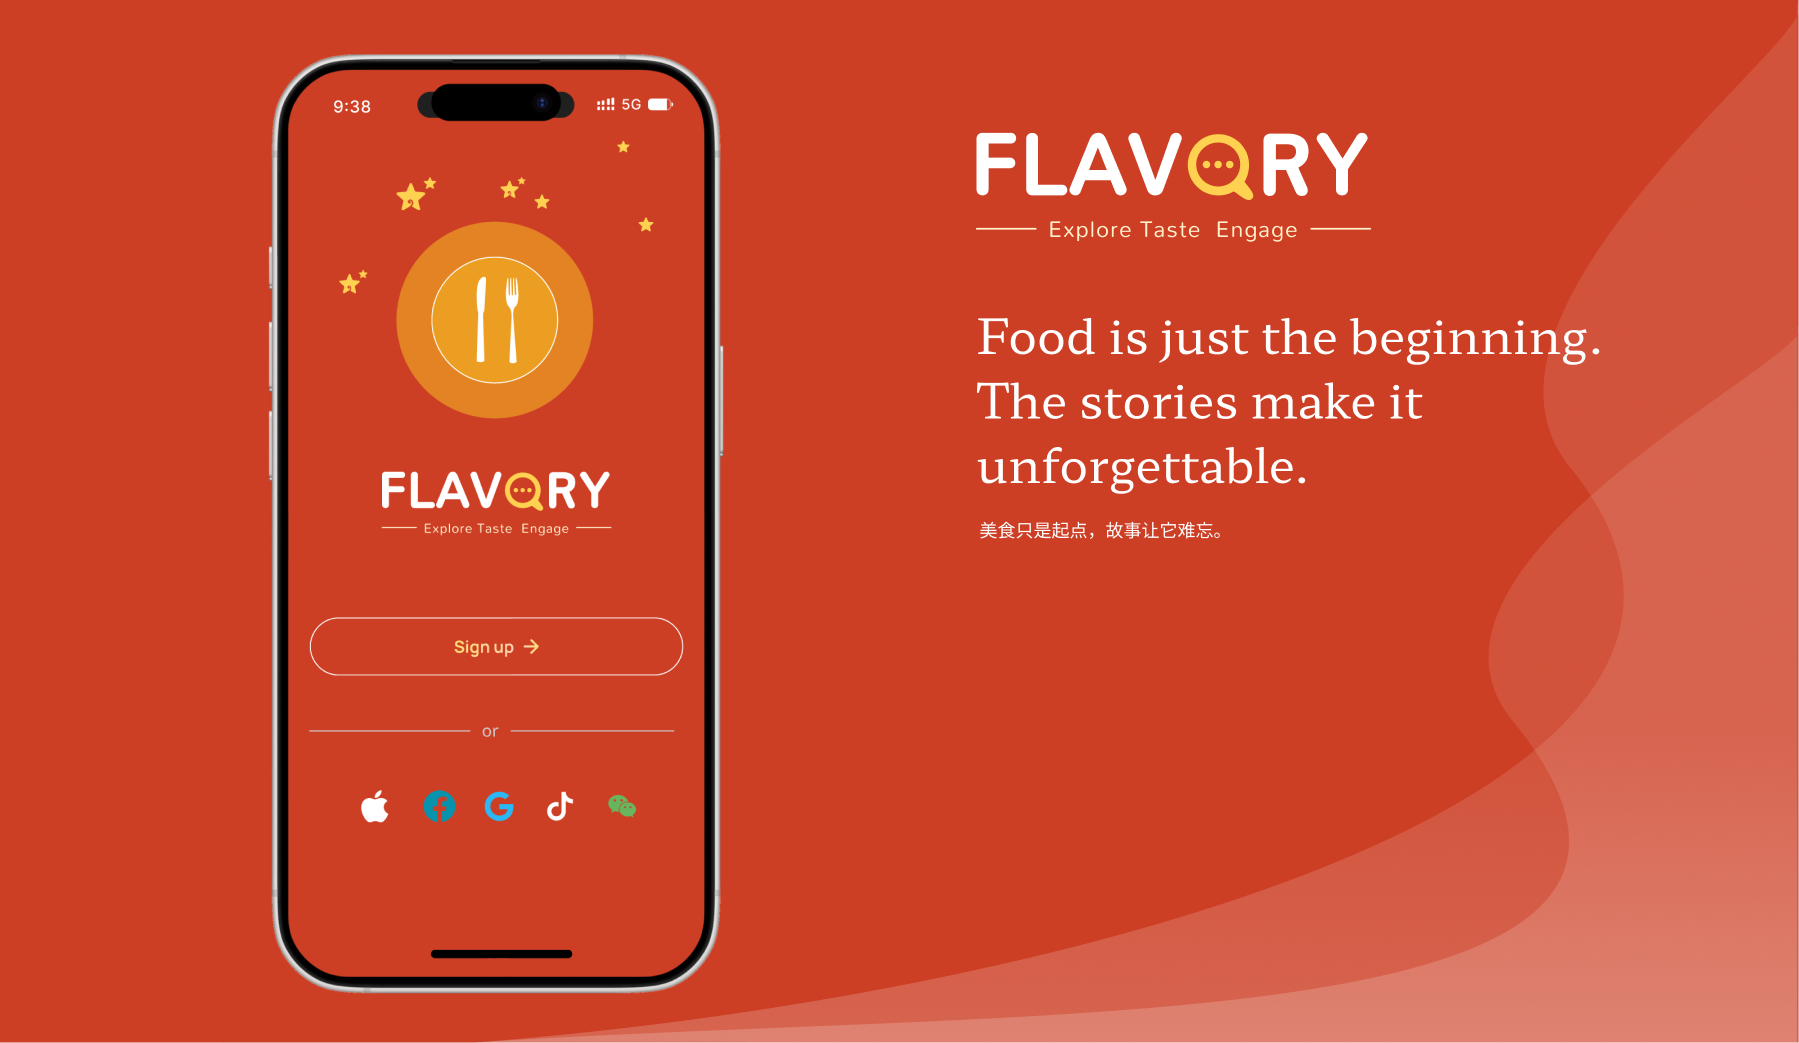
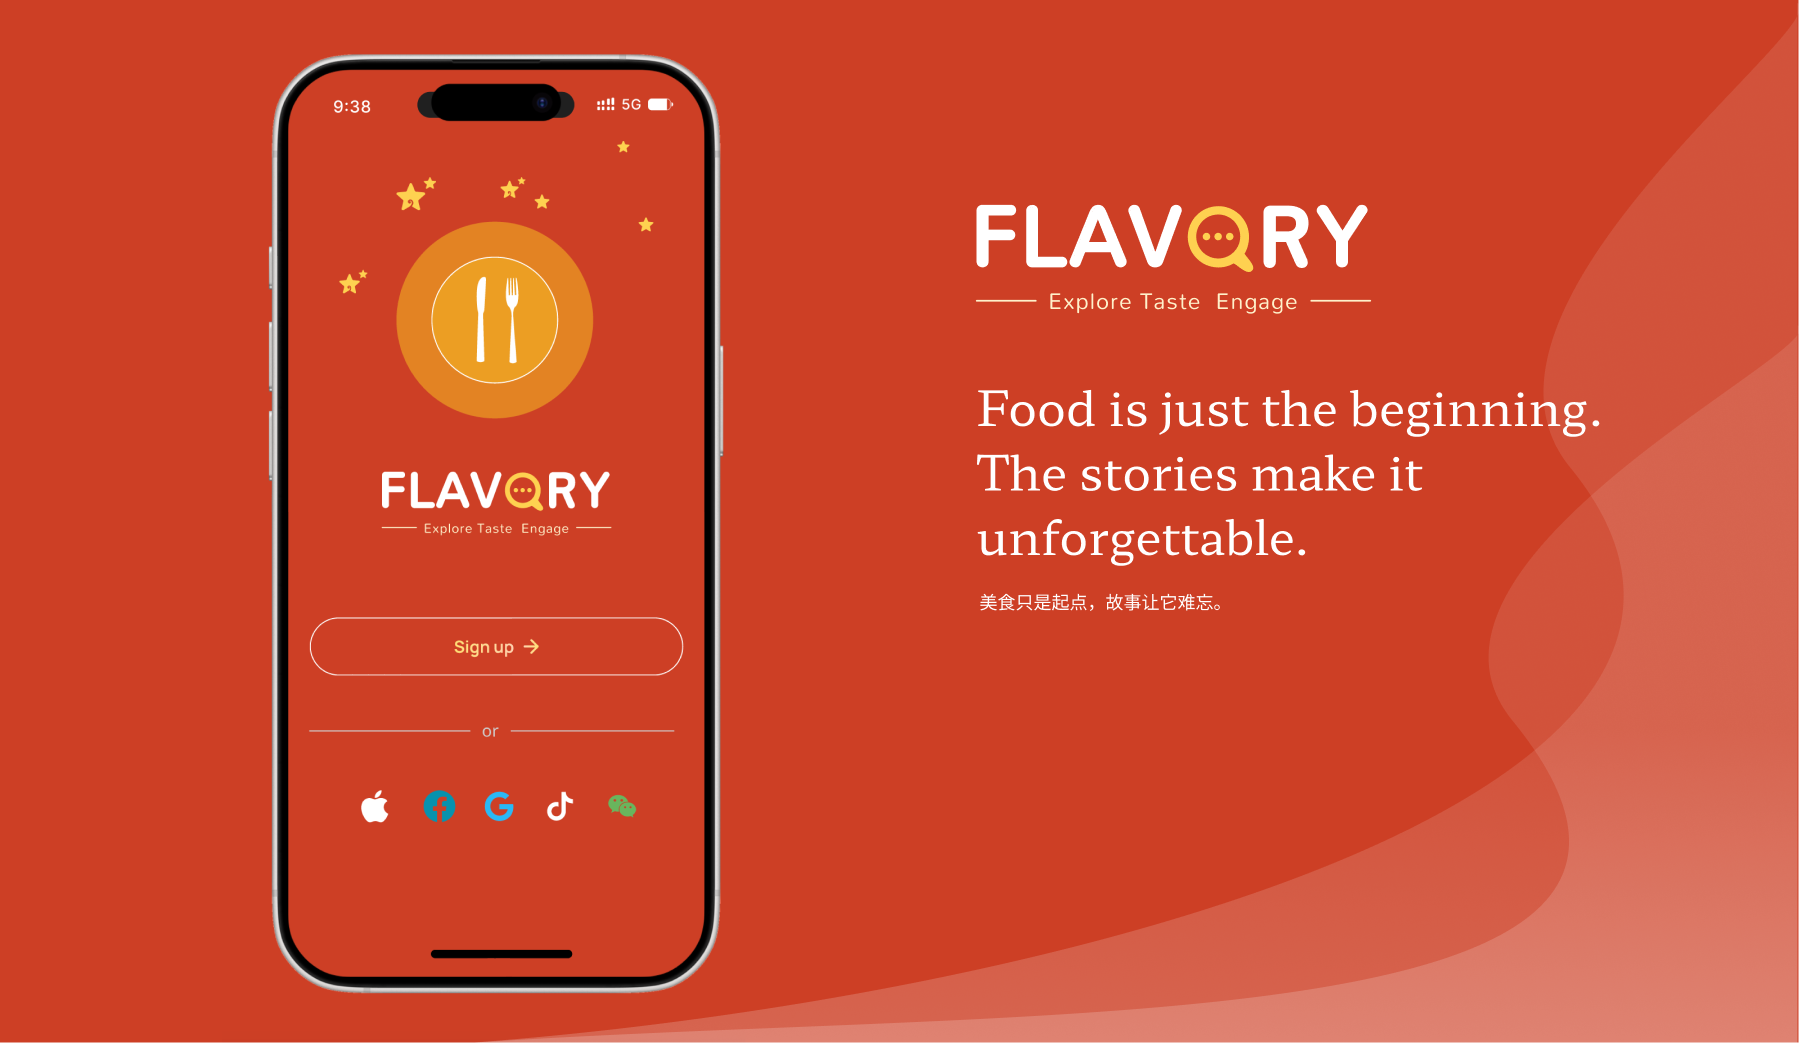
update

Changed region(s): [[0.5292, 0.1227, 0.9027, 0.5829]]

diff --git a/css/style.css b/css/style.css
@@ -3044,7 +3044,7 @@ video {
 
 .img-overlay {
   position: absolute;
-  bottom: 170px;
+  bottom: 140px;
   left: 67%;
   transform: translateX(-50%);
 }
